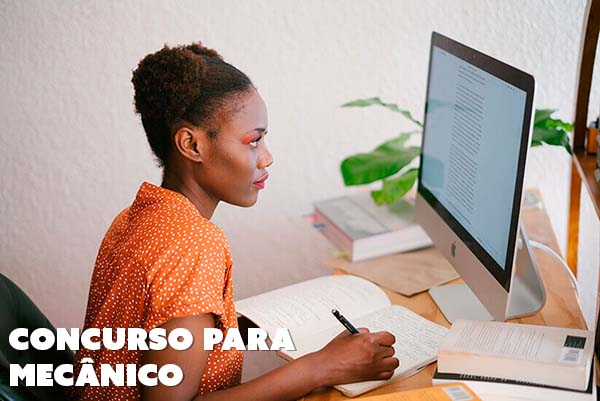
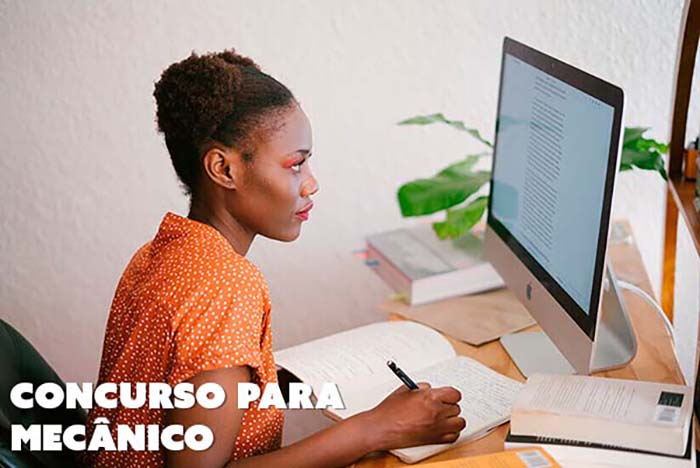
pag vagas finalizada

diff --git a/assets/css/carrossel.min.css b/assets/css/carrossel.min.css
@@ -1,0 +1,219 @@
+.slider{
+    margin: 0 auto;
+    width: 700px;
+    height: 468px;
+    overflow: hidden;
+}
+
+.slides{
+    height: 468px;
+    display: flex;
+}
+
+.slides input{
+    display: none;
+}
+
+.slide{
+    width: 100%;
+    position: relative;
+    transition: 1.5s;
+}
+
+.slide img{
+    width: 700px;
+}
+
+.navegacao-manual{
+    position: absolute;
+    width: 700px;
+    margin-top: -45px;
+    display: flex;
+    justify-content: center;
+}
+
+.manual-btn{
+    border: 2px solid white;
+    padding: 5px;
+    border-radius: 10px;
+    cursor: pointer;
+    transition: 0.5s;
+}
+
+.manual-btn:not(:last-child){
+    margin-right: 20px;
+}
+
+.manual-btn:hover{
+    background-color: white;
+}
+
+#radio1:checked ~ .primeiro{
+    margin-left: 0;
+}
+
+#radio2:checked ~ .primeiro{
+    margin-left: -100%;
+}
+
+#radio3:checked ~ .primeiro{
+    margin-left: -200%;
+}
+
+.auto-navegacao div{
+    border: 2px solid #014961;
+    padding: 5px;
+    border-radius: 10px;
+    cursor: pointer;
+    transition: 1s;
+}
+
+.auto-navegacao{
+    position: absolute;
+    margin-top: 423px;
+    width: 700px;
+    display: flex;
+    flex-direction: row;
+    justify-content: center;
+}
+
+.auto-navegacao div:not(:last-child){
+    margin-right: 20px;
+}
+
+#radio1:checked ~ .auto-navegacao .auto-btn1{
+    background-color: white;
+}
+
+#radio2:checked ~ .auto-navegacao .auto-btn2{
+    background-color: white;
+}
+
+#radio3:checked ~ .auto-navegacao .auto-btn3{
+    background-color: white;
+}
+
+@media only screen and (max-width: 1500px){
+    .slider{
+        width: 600px;
+        height: 401px;
+    }
+
+    .slides{
+        height: 401px;
+    }
+
+    .slide img{
+        width: 600px;
+    }
+
+    .navegacao-manual{
+        width: 600px;
+        margin-top: -35px;
+    }
+
+    .auto-navegacao{
+        margin-top: 366px;
+        width: 600px;
+    }
+}
+
+@media only screen and (max-width: 1000px){
+    .slider{
+        width: 500px;
+        height: 334px;
+    }
+
+    .slides{
+        height: 334px;
+    }
+
+    .slide img{
+        width: 500px;
+    }
+
+    .navegacao-manual{
+        width: 500px;
+        margin-top: -35px;
+    }
+
+    .auto-navegacao{
+        margin-top: 299px;
+        width: 500px;
+    }
+}
+
+@media only screen and (max-width: 800px){
+    .slider{
+        width: 400px;
+        height: 267px;
+    }
+
+    .slides{
+        height: 267px;
+    }
+
+    .slide img{
+        width: 400px;
+    }
+
+    .navegacao-manual{
+        width: 400px;
+        margin-top: -25px;
+    }
+
+    .auto-navegacao{
+        margin-top: 242px;
+        width: 400px;
+    }
+}
+
+@media only screen and (max-width: 700px){
+    .slider{
+        width: 350px;
+        height: 234px;
+    }
+
+    .slides{
+        height: 234px;
+    }
+
+    .slide img{
+        width: 350px;
+    }
+
+    .navegacao-manual{
+        width: 350px;
+        margin-top: -20px;
+    }
+
+    .auto-navegacao{
+        margin-top: 214px;
+        width: 350px;
+    }
+}
+
+@media only screen and (max-width: 400px){
+    .slider{
+        width: 250px;
+        height: 167px;
+    }
+
+    .slides{
+        height: 167px;
+    }
+
+    .slide img{
+        width: 250px;
+    }
+
+    .navegacao-manual{
+        width: 250px;
+        margin-top: -16px;
+    }
+
+    .auto-navegacao{
+        margin-top: 151px;
+        width: 250px;
+    }
+}

diff --git a/assets/css/vagas.min.css b/assets/css/vagas.min.css
@@ -161,18 +161,14 @@ main{
         width: 800px;
     }
 
-    #concurso{
-        height: 300px;
-    }
-
-    #top__img, #equipe{
-        height: 145px;
+    .imagens{
+        display: none;
     }
 }
 
 @media only screen and (max-width: 800px){
-    .main__title{
-        margin-top: 10%;
+    .titles{
+        margin-top: 90px;
     }
 
     .container__vertical__card{
@@ -200,7 +196,7 @@ main{
     }
 
     .img__mobile{
-        display: block;
+        display: flex;
     }
 
     .tela__media{
@@ -209,31 +205,19 @@ main{
 
     .mobile{
         display: flex;
+        flex-direction: column;
         justify-content: center;
         align-items: center;
         margin: auto;
     }
-
-    .linha{
-        display: flex;
-        flex-direction: row;
-    }
-
-    .coluna{
-        flex-direction: column;
-        margin: 1%;
-    }
-
 }
 
-@media only screen and (max-width:620px){
-    .main__title{
-        margin-top: 15%;
+@media only screen and (max-width: 700px){
+    .titles .main__title{
+        font-size: 2rem;
     }
-}
-
-@media only screen and (max-width:405px){
-    .main__title{
-        margin-top: 20%;
+    
+    .titles .sub__title{
+        font-size: 1rem;
     }
 }

diff --git a/assets/js/carrossel.js b/assets/js/carrossel.js
@@ -1,0 +1,17 @@
+let contador = 1;
+document.getElementById("radio1").checked = true;
+
+//intervalo que faz a função a cada 5 segundos
+setInterval( function() {
+    proximaImagem();
+}, 5000)
+
+function proximaImagem(){
+    contador++;
+    if(contador > 4){
+        contador = 1;
+    }
+
+    document.getElementById("radio"+contador).checked = true;
+
+}

diff --git a/pags/vagas.php b/pags/vagas.php
@@ -9,7 +9,8 @@
   <!--LINK ICONES-->
   <link href='https://unpkg.com/boxicons@2.1.4/css/boxicons.min.css' rel='stylesheet'>
 
-  <link rel="stylesheet" href="../assets/css/newvagas.min.css">
+  <link rel="stylesheet" href="../assets/css/vagas.min.css">
+  <link rel="stylesheet" href="../assets/css/carrossel.min.css">
   <link rel="stylesheet" href="../assets/css/estilos-importantes.css">
 
 
@@ -26,23 +27,50 @@
 
   <main>
     <div class="container">
-
         <div class="titles">
             <h1 class="main__title">Seja parte do time Turn Motors</h1>
             <h2 class="sub__title">Veja as vagas de emprego disponível para você fazer parte da equipe Turn Motors</h2>
         </div>
 
-        <div class="imagens">
-            <div class="coluna">
-                <a href="concurso.php" class="a__card"><img id="concurso" src="../assets/img/concurso.jpg" alt="Concurso para mecânico"></a>
+        <div class="slider">
+            <div class="slides">
+                <!--RADIO BUTTONS-->
+                <input type="radio" name="radio-btn" id="radio1">
+                <input type="radio" name="radio-btn" id="radio2">
+                <input type="radio" name="radio-btn" id="radio3">
+                <!--FIM RADIO BUTTONS-->
+
+                <!--SLIDE IMAGENS-->
+                <div class="slide primeiro">
+                    <img src="../assets/img/concurso.jpg" alt="Concurso">
+                </div>
+                <div class="slide">
+                    <img src="../assets/img/funcionaria.jpg" alt="Funcionária do Mês">
+                </div>
+                <div class="slide">
+                    <img src="../assets/img/equipe.jpg" alt="Equipe 2023">
+                </div>
+                <!--FIM SLIDE IMAGENS-->
+
+                <!--AUTO NAVEGAÇÃO-->
+                <div class="auto-navegacao">
+                    <div class="auto-btn1">
+
+                    </div>
+                    <div class="auto-btn2">
+                        
+                    </div>
+                    <div class="auto-btn3">
+                        
+                    </div>
+                </div>
+
             </div>
-            <div class="coluna img__tela__grande">
-                <div class="coluna__img"><a href="funcionariames.php" class="a__card"><img id="top__img" src="../assets/img/funcionaria.jpg" alt="Funcionaria do Mes"></a></div>
-                <div class="coluna__img"><a href="equipe.php" class="a__card"><img id="equipe" src="../assets/img/equipe.jpg" alt="Equipe 2023"></a></div>
-            </div>
-            <div class="img__mobile">
-                <a href="funcionariames.php" class="a__card"><img id="top__img" src="../assets/img/funcionaria.jpg" alt="Funcionaria do Mes"></a>
-                <a href="equipe.php" class="a__card"><img id="equipe" src="../assets/img/equipe.jpg" alt="Equipe 2023">
+
+            <div class="navegacao-manual">
+                <label for="radio1" class="manual-btn"></label>
+                <label for="radio2" class="manual-btn"></label>
+                <label for="radio3" class="manual-btn"></label>
             </div>
         </div>
 
@@ -279,6 +307,8 @@
   require_once('../assets/components/footer.php');
   ?>
 
+
+  <script src="../assets/js/carrossel.js"></script>
 </body>
 
 </html
